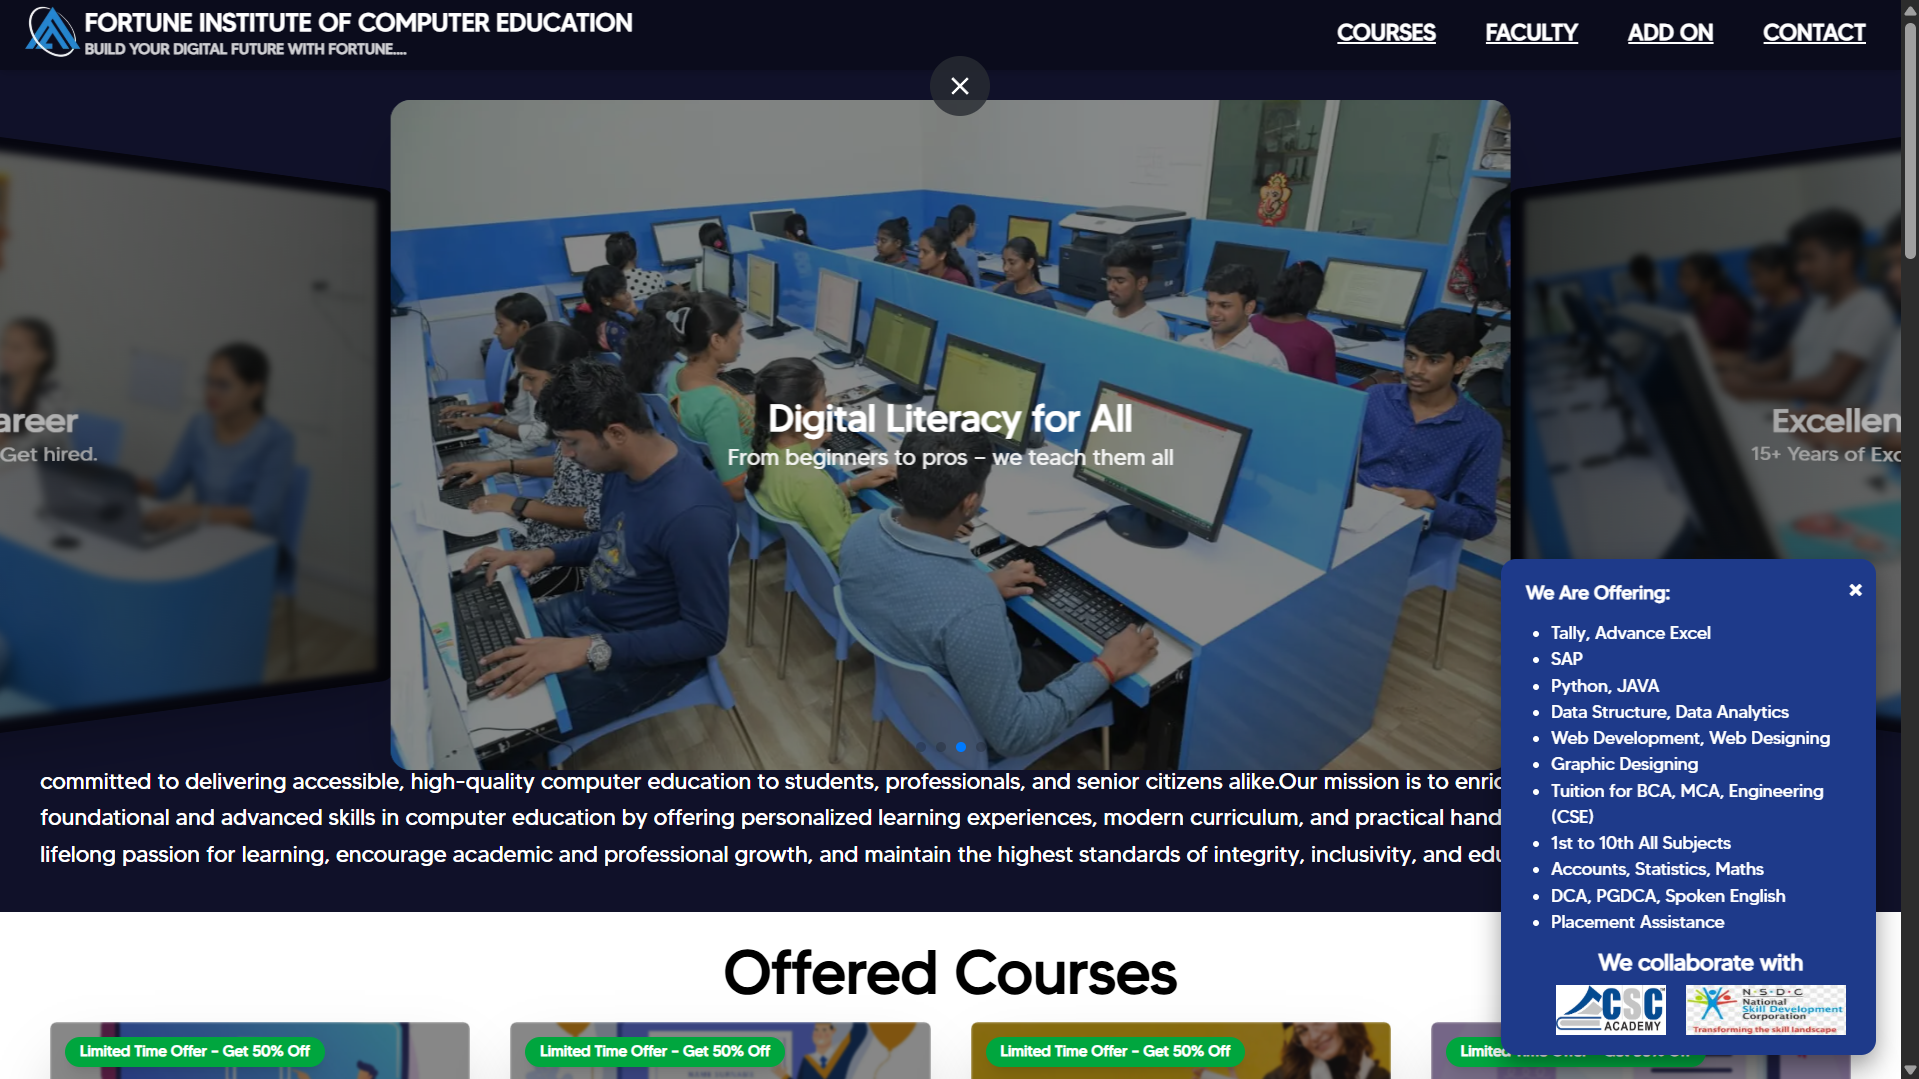
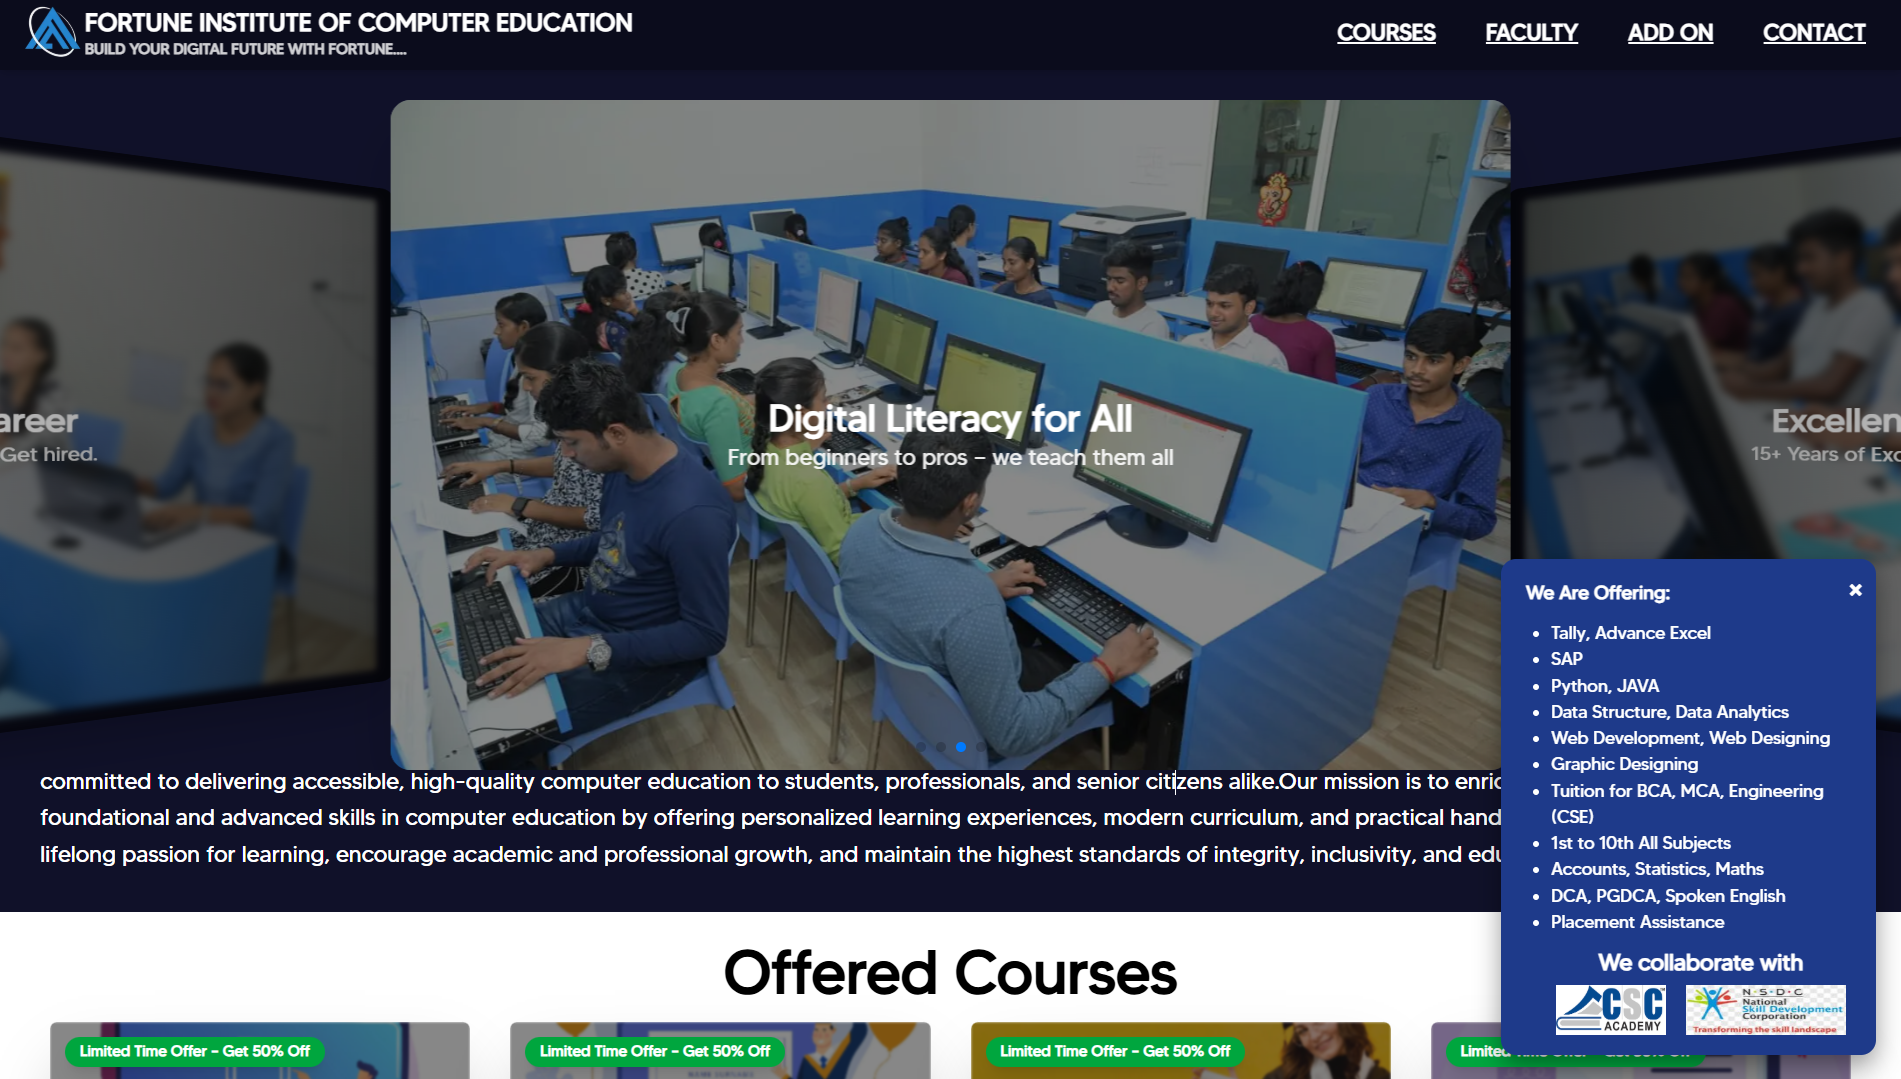
minor updates

diff --git a/app/components/ProjectSection.jsx b/app/components/ProjectSection.jsx
@@ -45,24 +45,21 @@ const ProjectSection = () => {
       { name: 'GitHub', icon: 'https://cdn.simpleicons.org/github' },
       { name: 'EmailJS', icon: 'https://cdn.simpleicons.org/emailjs' },
     ],
-    PlayureTechStack: [
+    NammaBenakaTechStack: [
       { name: 'ReactJS', icon: 'https://cdn.simpleicons.org/react' },
-      { name: 'NodeJS', icon: 'https://cdn.simpleicons.org/nodejs' },
       { name: 'NextJS', icon: 'https://cdn.simpleicons.org/nextdotjs' },
+      { name: 'NodeJS', icon: 'https://cdn.simpleicons.org/nodejs' },
       { name: 'ExpressJS', icon: 'https://cdn.simpleicons.org/express' },
       { name: 'MongoDB', icon: 'https://cdn.simpleicons.org/mongodb' },
       { name: 'Mongoose', icon: 'https://cdn.simpleicons.org/mongoose' },
-      { name: 'JWT', icon: 'https://cdn.simpleicons.org/jwt' },
-      { name: 'Bcrypt', icon: 'https://cdn.simpleicons.org/bcrypt' },
-      { name: 'CORS', icon: 'https://cdn.simpleicons.org/cors' },
-      { name: "Axios", icon: 'https://cdn.simpleicons.org/axios' },
+      { name: 'JWT', icon: 'https://cdn.simpleicons.org/jsonwebtokens' },
+      { name: 'Axios', icon: 'https://cdn.simpleicons.org/axios' },
       { name: 'Tailwind CSS', icon: 'https://cdn.simpleicons.org/tailwindcss' },
       { name: 'Framer Motion', icon: 'https://cdn.simpleicons.org/framer' },
-      { name: 'SwiperJS', icon: 'https://cdn.simpleicons.org/swiper' },
-      { name: 'Frame Motion', icon: 'https://cdn.simpleicons.org/framer' },
       { name: 'Git', icon: 'https://cdn.simpleicons.org/git' },
       { name: 'GitHub', icon: 'https://cdn.simpleicons.org/github' },
     ],
+
     PortfolioTechStack: [
       { name: 'ReactJS', icon: 'https://cdn.simpleicons.org/react' },
       { name: 'NextJS', icon: 'https://cdn.simpleicons.org/nextdotjs' },
@@ -124,40 +121,37 @@ const ProjectSection = () => {
     ],
   };
 
-  const PlayureData = {
-    title: 'Playure - A sprorts organization',
+  const NammaBenakaData = {
+    title: 'NammaBenaka - Smarter Loan Management Platform',
     description:
-      "Building Playure, a group-freelance project alongside couple of friends to revolutionize sporting by creating seamless connectivity and networking for athletes and coaches.",
+      'Built NammaBenaka, a full-stack fintech platform focused on simplifying loan access for individuals and businesses through a fast, transparent, and user-centric digital experience.',
     features: [
-      'Under development with React, Node.js, and Express.js to create a dynamic and responsive user interface.',
-        'Building the website using React, Next.js, and Tailwind CSS.',
-      'Implentation of jwt for authentication and authorization.',
-      'Integration of mongoDB for efficient data storage and retrieval.',
-      'Used axios for efficient HTTP requests and responses.',
-      'Uzed cors for cross-origin resource sharing.',
-      'Used jwt for token authentication and authorization.',
-      'Used bcrypt for password encryption.',
-      'Utilization of Tailwind CSS for efficient styling and responsive design.',
-      'Implementation of Next.js for efficient server-side rendering and routing.',
-      'Utilization of Framer Motion for smooth animations and transitions.',
-      'Utilization of Git for version control and collaboration.',
+      'Designed and developed a full-stack loan management platform using React, Next.js, Node.js, and Express.',
+      'Implemented secure authentication and role-based authorization using JWT.',
+      'Integrated MongoDB with Mongoose for structured, scalable financial data handling.',
+      'Built clean and intuitive dashboards for users and administrators.',
+      'Focused on trust-first UI/UX for financial credibility and ease of use.',
+      'Created a responsive, mobile-first interface using Tailwind CSS.',
+      'Used Axios for efficient and secure client–server communication.',
+      'Applied Framer Motion for subtle, professional UI animations.',
     ],
   };
+
 
   const PortfolioData = {
     title: 'Portfolio - A website about me',
     description:
       "Built a personal portfolio project to showcase my skills, projects, couses completes and experiences with the motive to connect with the world and build a successful career.",
-      features: [
-        'Built a personal portfolio website using React, Next.js, and Tailwind CSS.',
-        'Implemented Next.js for efficient server-side rendering and routing.',
-        'Utilized Framer Motion for smooth animations and transitions.',
-        'Utilized various frontend frameworks and libraries and tools.',
-        'Utilized Git for version control and collaboration.',
-        'Integrated EmailJS for contact form functionality.',
+    features: [
+      'Built a personal portfolio website using React, Next.js, and Tailwind CSS.',
+      'Implemented Next.js for efficient server-side rendering and routing.',
+      'Utilized Framer Motion for smooth animations and transitions.',
+      'Utilized various frontend frameworks and libraries and tools.',
+      'Utilized Git for version control and collaboration.',
+      'Integrated EmailJS for contact form functionality.',
     ],
   };
-  
+
 
   return (
     <section id="projects" className="relative w-full py-10 bg-[#000000] ">
@@ -236,23 +230,24 @@ const ProjectSection = () => {
             />
           </div>
 
-          <div className='flex text-[#fff] items-center gap-10'>
+          <div className="flex text-[#fff] items-center gap-10">
             <ProjectCard
-              href="https://github.com/Gagan-poojari/playure"
-              title="A platform to hopefully revolutionize sporting by creating seamless connectivity between players and coaches."
-              imgSrc="/projects/playure.png"
-              shadowColor="#7E22CE"
-              gradientBg="linear-gradient(188.62deg, #3D1A7A 49.9%, #7E22CE 81.7%, #C084FC 93.88%, #F9D793 113.5%)"
-              textColor="text-purple-300"
+              href="https://www.nammabenaka.in/"
+              title="A full-stack loan management platform with secure authentication and modern UI."
+              imgSrc="/projects/nammabenaka.png"
+              shadowColor="#F97316"
+              gradientBg="linear-gradient(188.62deg, #431407 49.9%, #F97316 81.7%, #FDBA74 93.88%, #F9D793 113.5%)"
+              textColor="text-orange-300"
             />
             <ProjectCardDesc
-              href="https://github.com/Gagan-poojari/playure"
-              title={PlayureData.title}
-              description={PlayureData.description}
-              features={PlayureData.features}
-              techStack={ProjectsData.PlayureTechStack}
+              href="https://github.com/Gagan-poojari/mybenaka"
+              title={NammaBenakaData.title}
+              description={NammaBenakaData.description}
+              features={NammaBenakaData.features}
+              techStack={ProjectsData.NammaBenakaTechStack}
             />
           </div>
+
 
           <div className='flex text-[#fff] items-center gap-10'>
             <ProjectCard
@@ -305,7 +300,7 @@ const ProjectCardDesc = ({ href, title, description, features = [], techStack = 
             <Link href={href} target="_blank" className=" flex items-center gap-5">
               <div aria-hidden="true" className="font-bold text-lg text-blue-700" > <FaExternalLinkAlt /> </div>
               <h3 className="text-foreground text-2xl font-bold ">{title}</h3>
-              
+
             </Link>
             <p className="text-muted-foreground my-2 text-base font-light">{description}</p>
 
